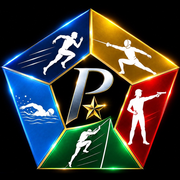
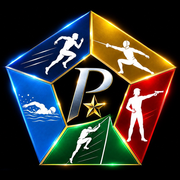
ロゴの切り出し範囲を外側の光まで広げ、端で欠けないようにする
Claude-Session: https://claude.ai/code/session_01LBnRPM97xNPyf9hybkjwbj

diff --git a/app/src/lib/constants/logo-geometry.ts b/app/src/lib/constants/logo-geometry.ts
@@ -9,12 +9,12 @@ export const LOGO_WEDGES: {
   points: string;
   centroid: { x: number; y: number };
 }[] = [
-  { id: "fencing", points: "50.46,6.74 50.56,6.33 50.66,6.13 51.38,6.03 51.58,6.03 56.79,8.89 97.96,36.06 98.16,36.36 98.16,36.98 97.85,37.28 97.04,37.59 94.28,38.61 75.69,45.45 74.57,45.86 74.26,45.97 73.24,45.97 72.63,45.56 68.23,42.29 55.16,32.18 54.55,31.66 52.40,29.72 51.89,29.21 51.79,29.01 51.69,28.70 50.46,8.99", centroid: { x: 69.80, y: 28.59 } },
-  { id: "obstacle", points: "23.80,92.03 27.07,87.13 28.40,85.19 35.24,75.38 35.96,74.36 36.47,73.65 36.77,73.24 36.87,73.14 37.18,72.93 37.39,72.83 57.00,67.52 57.41,67.42 59.75,67.21 59.86,67.31 62.00,70.48 74.77,89.89 76.00,91.83 76.10,92.03 76.10,92.34 76.00,92.44 75.79,92.54 75.28,92.65 72.01,92.75 54.55,92.95 25.64,92.65 24.21,92.54 24.00,92.44 23.80,92.24", centroid: { x: 50.41, y: 82.76 } },
-  { id: "swimming", points: "1.63,38.41 1.94,38.41 3.88,39.02 11.13,41.78 26.15,47.50 26.56,47.70 26.97,48.11 27.07,48.31 27.68,50.05 34.63,70.07 34.83,70.68 34.83,71.40 34.73,71.71 34.53,72.11 32.38,75.38 31.97,76.00 24.21,87.23 21.55,90.81 21.25,91.22 21.14,91.32 20.94,91.42 20.74,91.32 20.63,91.22 20.53,91.01 20.33,90.50 13.38,72.32 1.63,38.61", centroid: { x: 19.66, y: 62.67 } },
-  { id: "shooting", points: "65.27,70.38 67.42,64.45 68.95,60.37 72.11,51.99 72.32,51.48 73.54,48.52 73.65,48.31 74.16,47.80 74.36,47.70 78.24,46.17 95.40,39.84 97.24,39.22 97.45,39.22 97.65,39.33 97.75,39.43 97.75,39.73 97.65,40.25 92.13,58.22 92.03,58.53 90.91,61.80 82.23,84.78 79.98,90.70 79.78,91.22 79.67,91.42 79.47,91.62 79.16,91.62 78.96,91.42 77.73,89.68 73.14,83.15 67.72,75.28 67.52,74.97 65.37,71.71 65.27,71.40", centroid: { x: 80.51, y: 63.06 } },
-  { id: "running", points: "1.12,35.44 1.33,34.93 1.63,34.32 2.04,33.71 2.35,33.30 3.47,32.18 3.98,31.77 4.39,31.46 35.55,11.44 36.36,10.93 37.08,10.52 38.30,9.91 39.33,9.50 42.19,8.38 43.00,8.07 43.92,7.76 48.31,6.54 48.42,6.54 48.52,6.64 48.62,6.84 48.72,7.56 48.83,26.15 48.83,28.91 48.62,29.32 48.11,29.83 44.02,32.89 28.40,44.43 27.78,44.84 27.48,44.94 26.35,44.94 21.45,43.31 1.23,36.26 1.12,36.16", centroid: { x: 29.44, y: 27.63 } },
+  { id: "fencing", points: "50.59,7.86 50.69,7.47 50.79,7.27 51.47,7.17 51.67,7.17 56.68,9.92 96.27,36.05 96.46,36.35 96.46,36.94 96.17,37.23 95.38,37.52 92.73,38.51 74.85,45.09 73.77,45.48 73.48,45.58 72.50,45.58 71.91,45.19 67.68,42.04 55.11,32.32 54.52,31.83 52.46,29.96 51.96,29.47 51.87,29.27 51.77,28.98 50.59,10.02", centroid: { x: 69.18, y: 28.87 } },
+  { id: "obstacle", points: "24.95,89.88 28.09,85.17 29.37,83.30 35.95,73.87 36.64,72.89 37.13,72.20 37.43,71.81 37.52,71.71 37.82,71.51 38.02,71.41 56.88,66.31 57.27,66.21 59.53,66.01 59.63,66.11 61.69,69.16 73.97,87.82 75.15,89.69 75.25,89.88 75.25,90.18 75.15,90.28 74.95,90.37 74.46,90.47 71.32,90.57 54.52,90.77 26.72,90.47 25.34,90.37 25.15,90.28 24.95,90.08", centroid: { x: 50.54, y: 80.97 } },
+  { id: "swimming", points: "3.63,38.31 3.93,38.31 5.80,38.90 12.77,41.55 27.21,47.05 27.60,47.25 28.00,47.64 28.09,47.84 28.68,49.51 35.36,68.76 35.56,69.35 35.56,70.04 35.46,70.33 35.27,70.73 33.20,73.87 32.81,74.46 25.34,85.27 22.79,88.70 22.50,89.10 22.40,89.19 22.20,89.29 22.00,89.19 21.91,89.10 21.81,88.90 21.61,88.41 14.93,70.92 3.63,38.51", centroid: { x: 20.97, y: 61.64 } },
+  { id: "shooting", points: "64.83,69.06 66.90,63.36 68.37,59.43 71.41,51.38 71.61,50.88 72.79,48.04 72.89,47.84 73.38,47.35 73.58,47.25 77.31,45.78 93.81,39.69 95.58,39.10 95.78,39.10 95.97,39.19 96.07,39.29 96.07,39.59 95.97,40.08 90.67,57.37 90.57,57.66 89.49,60.81 81.14,82.91 78.98,88.61 78.78,89.10 78.68,89.29 78.49,89.49 78.19,89.49 78.00,89.29 76.82,87.62 72.40,81.34 67.19,73.77 66.99,73.48 64.93,70.33 64.83,70.04", centroid: { x: 79.48, y: 62.02 } },
+  { id: "running", points: "3.14,35.46 3.34,34.97 3.63,34.38 4.03,33.79 4.32,33.40 5.40,32.32 5.89,31.93 6.29,31.63 36.25,12.38 37.03,11.89 37.72,11.49 38.90,10.90 39.88,10.51 42.63,9.43 43.42,9.14 44.30,8.84 48.53,7.66 48.62,7.66 48.72,7.76 48.82,7.96 48.92,8.64 49.02,26.52 49.02,29.17 48.82,29.57 48.33,30.06 44.40,33.01 29.37,44.11 28.78,44.50 28.49,44.60 27.41,44.60 22.69,43.03 3.24,36.25 3.14,36.15", centroid: { x: 30.38, y: 27.95 } },
 ];
 
 // 中央の星の重心。組み上がる演出で、きらめきの光をここから出す。
-export const LOGO_STAR = { x: 53.75, y: 58.66 };
+export const LOGO_STAR = { x: 53.75, y: 57.78 };
